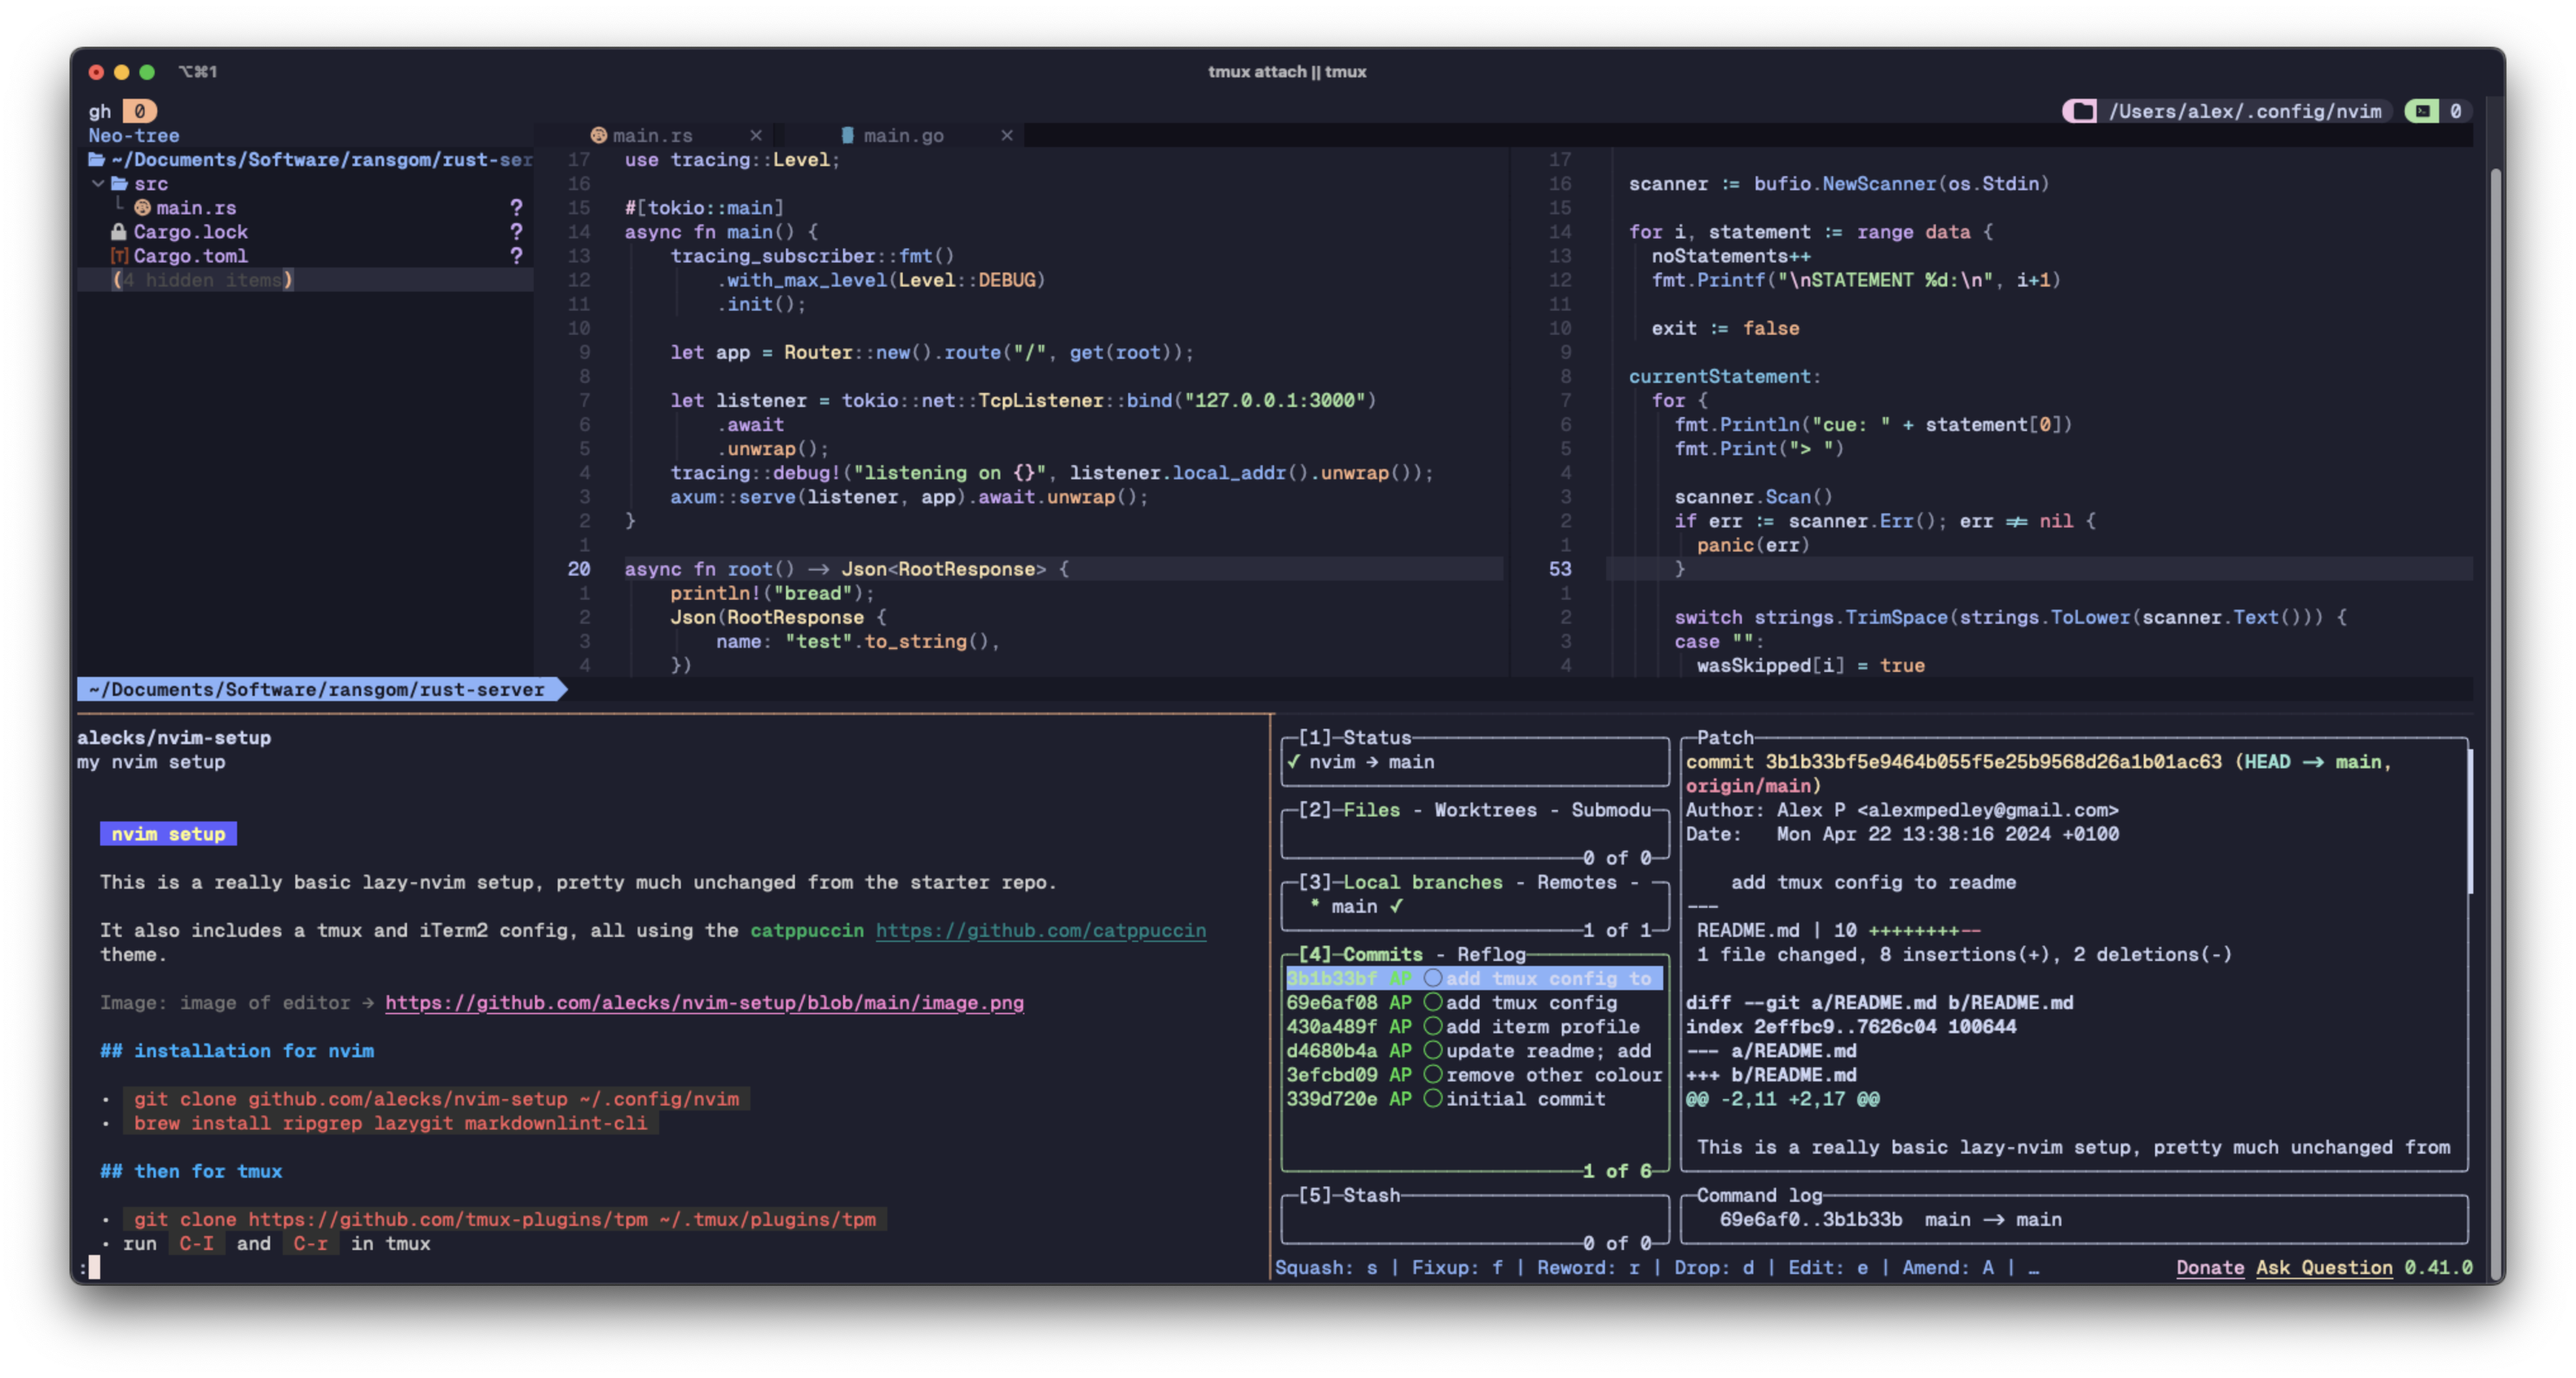
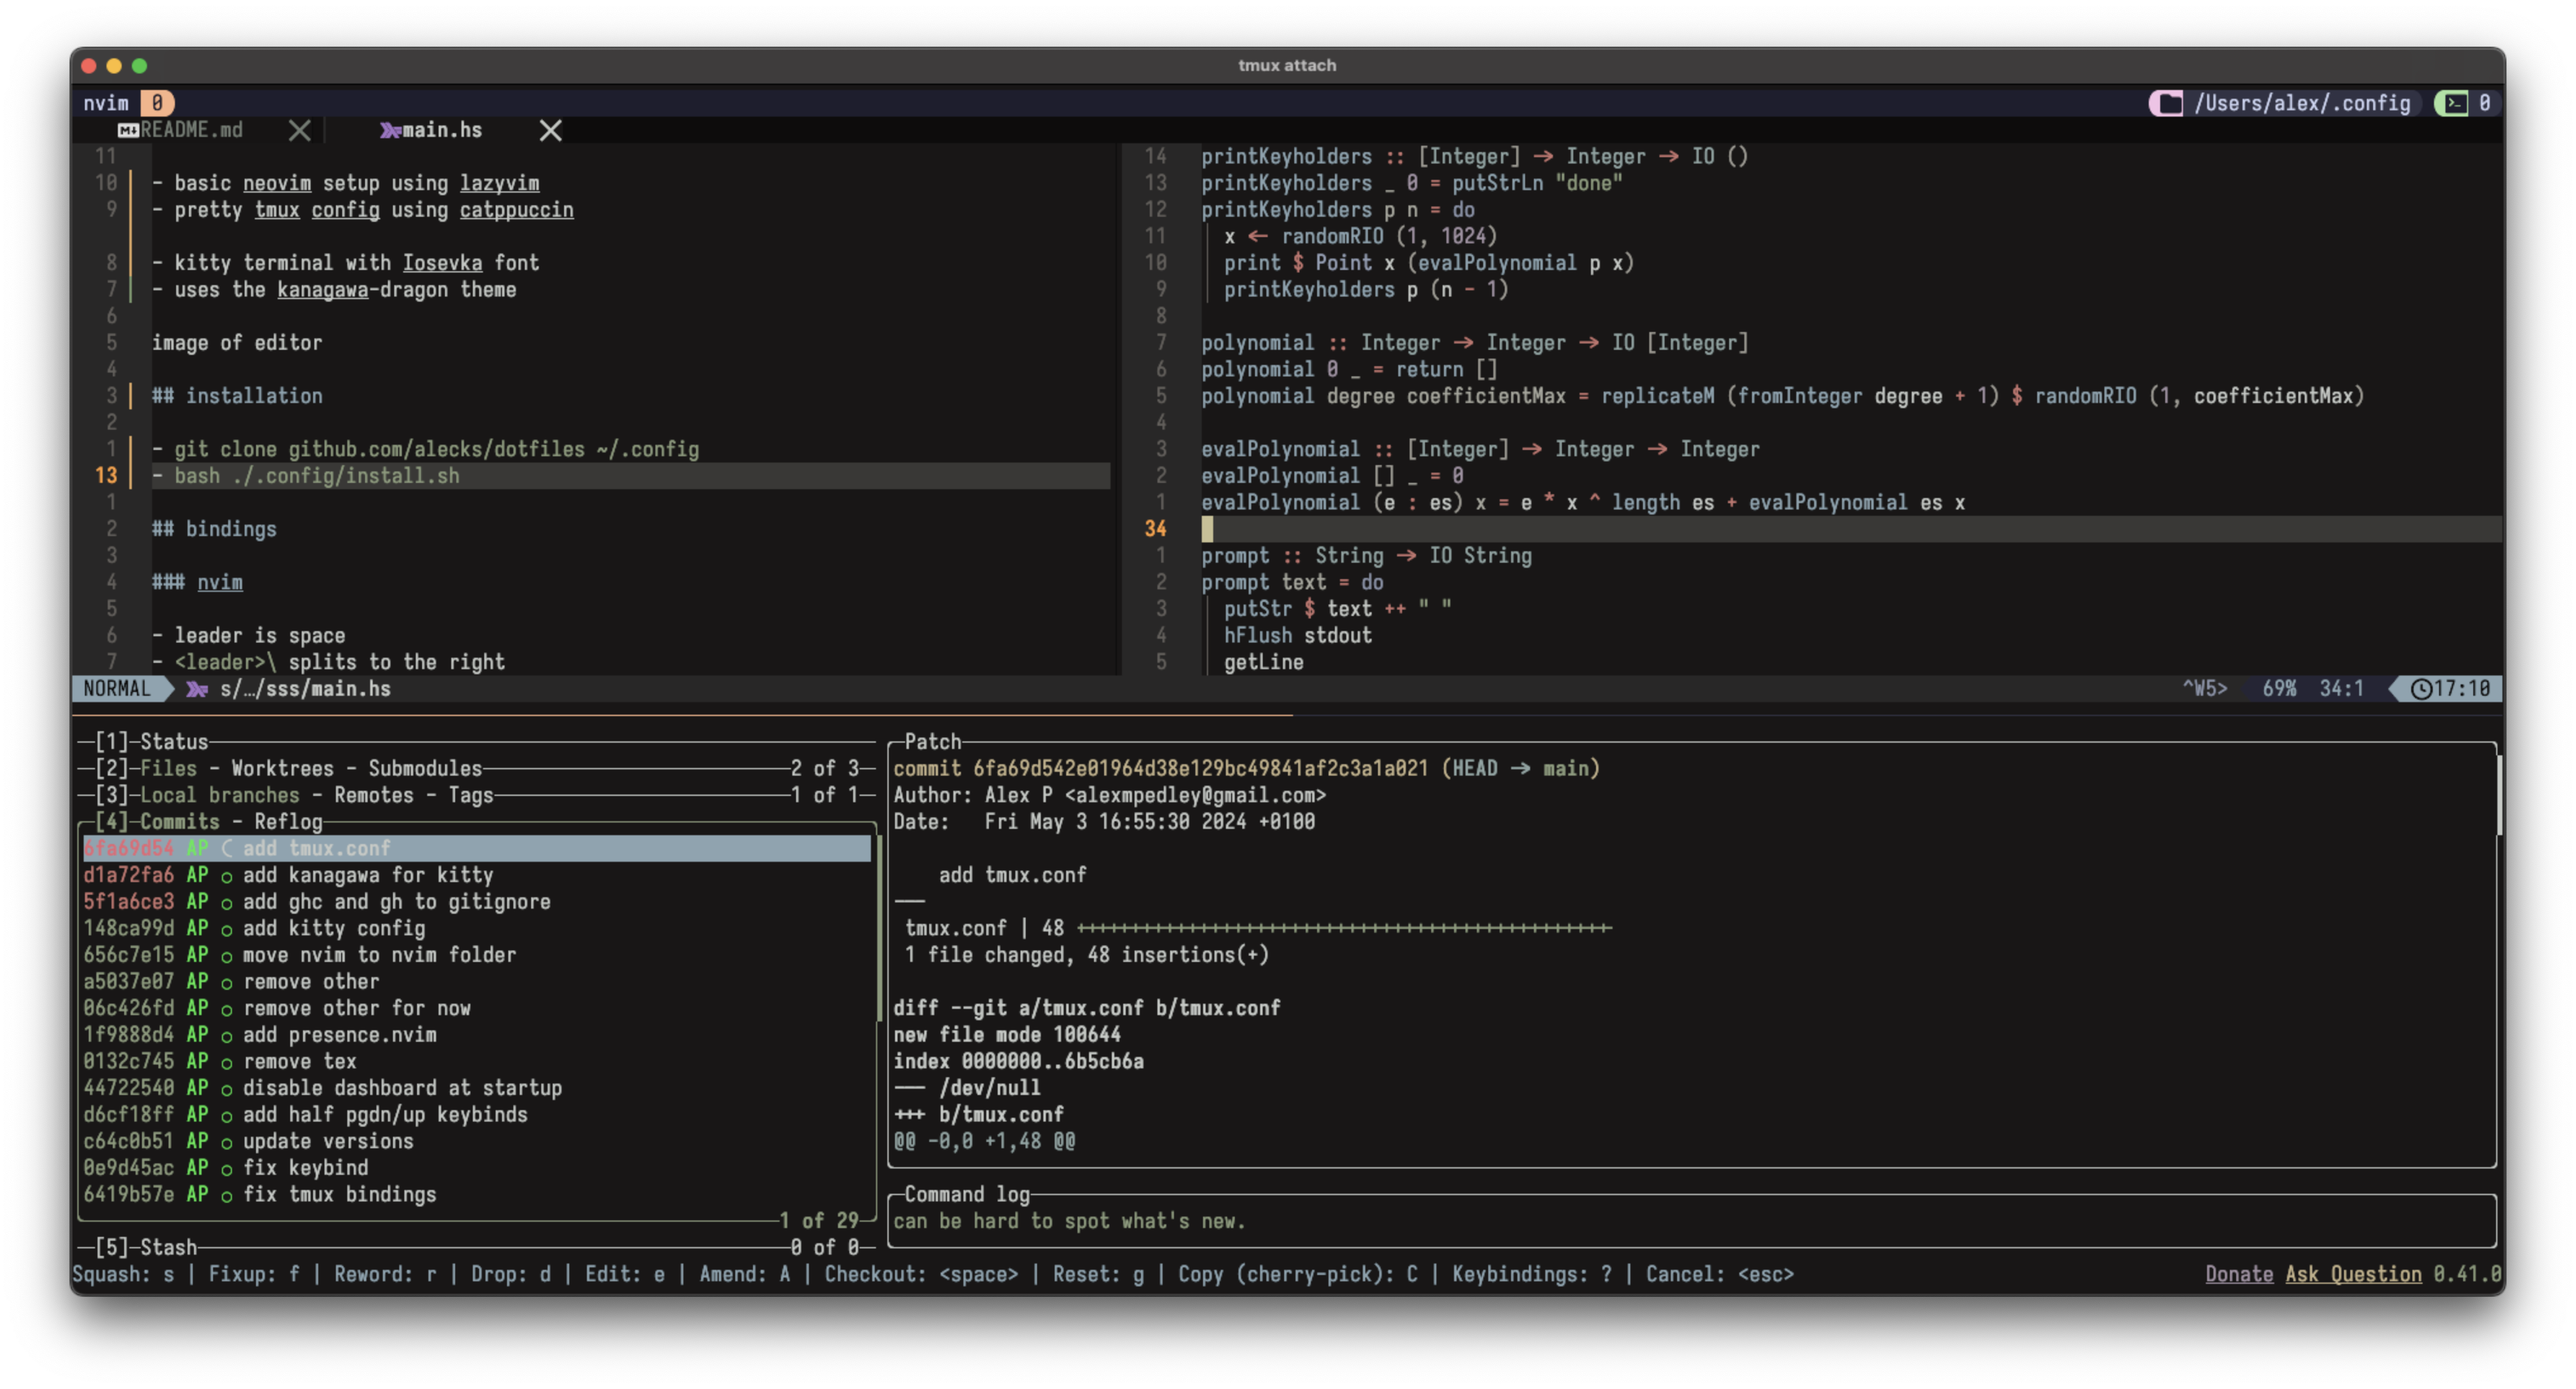
update image and readme

Changed region(s): [[0.0312, 0.0308, 1.0, 0.9554]]

diff --git a/README.md b/README.md
@@ -1,21 +1,16 @@
-# nvim setup
+# dotfiles
 
-This is a really basic [lazy-vim](https://lazyvim.org) setup, pretty much unchanged from the starter repo.
-
-It also includes a tmux and iTerm2 config, all using the [catppuccin](https://github.com/catppuccin) theme.
+- basic [neovim](https://neovim.io) setup using [lazyvim](https://lazyvim.org)
+- pretty [tmux](https://github.com/tmux/tmux/wiki) config using [catppuccin](https://github.com/catppuccin/tmux)
+- kitty terminal with [Iosevka](https://github.com/be5invis/Iosevka) font
+- uses the [kanagawa-dragon](https://github.com/rebelot/kanagawa.nvim) theme
 
 ![image of editor](./image.png)
 
-## installation for nvim
+## installation
 
-- `git clone github.com/alecks/nvim-setup ~/.config/nvim`
-- `brew install ripgrep lazygit`
-
-## then for tmux
-
-- `git clone https://github.com/tmux-plugins/tpm ~/.tmux/plugins/tpm`
-- run `I` then `r` in tmux
-- `cp ~/.config/nvim/other/.tmux.conf ~/.tmux.conf`
+- `git clone github.com/alecks/dotfiles ~/.config`
+- `bash ./.config/install.sh`
 
 ## bindings
 
